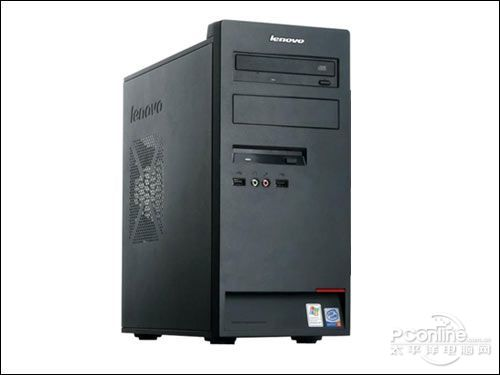
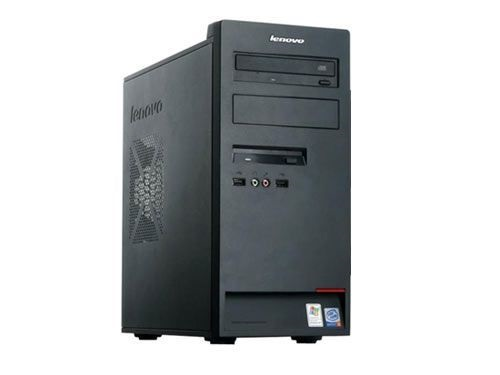
更新启天的面板插槽

Changed region(s): [[0.0, 0.0, 1.0, 1.0], [0.0, 0.0, 0.03, 0.0293]]

diff --git a/README.md b/README.md
@@ -24,8 +24,12 @@
 
 
 联想启天M4300
-![lenovo 启天 M4300](./images/lenovo/lenovo_qitian-m4300.jpg)
+
+![lenovo 启天 M4300](./images/lenovo/lenovo_qitian_m4300.jpg)
+
 ![lenovo 启天 M4300](./images/lenovo/lenovo_qitian-m4300-pinout.png)
+
+![启天M4300面板插槽](./images/lenovo/lenovo_qitian-m4300-front-pannel-slot.png)
 
 
 ## GiGA
